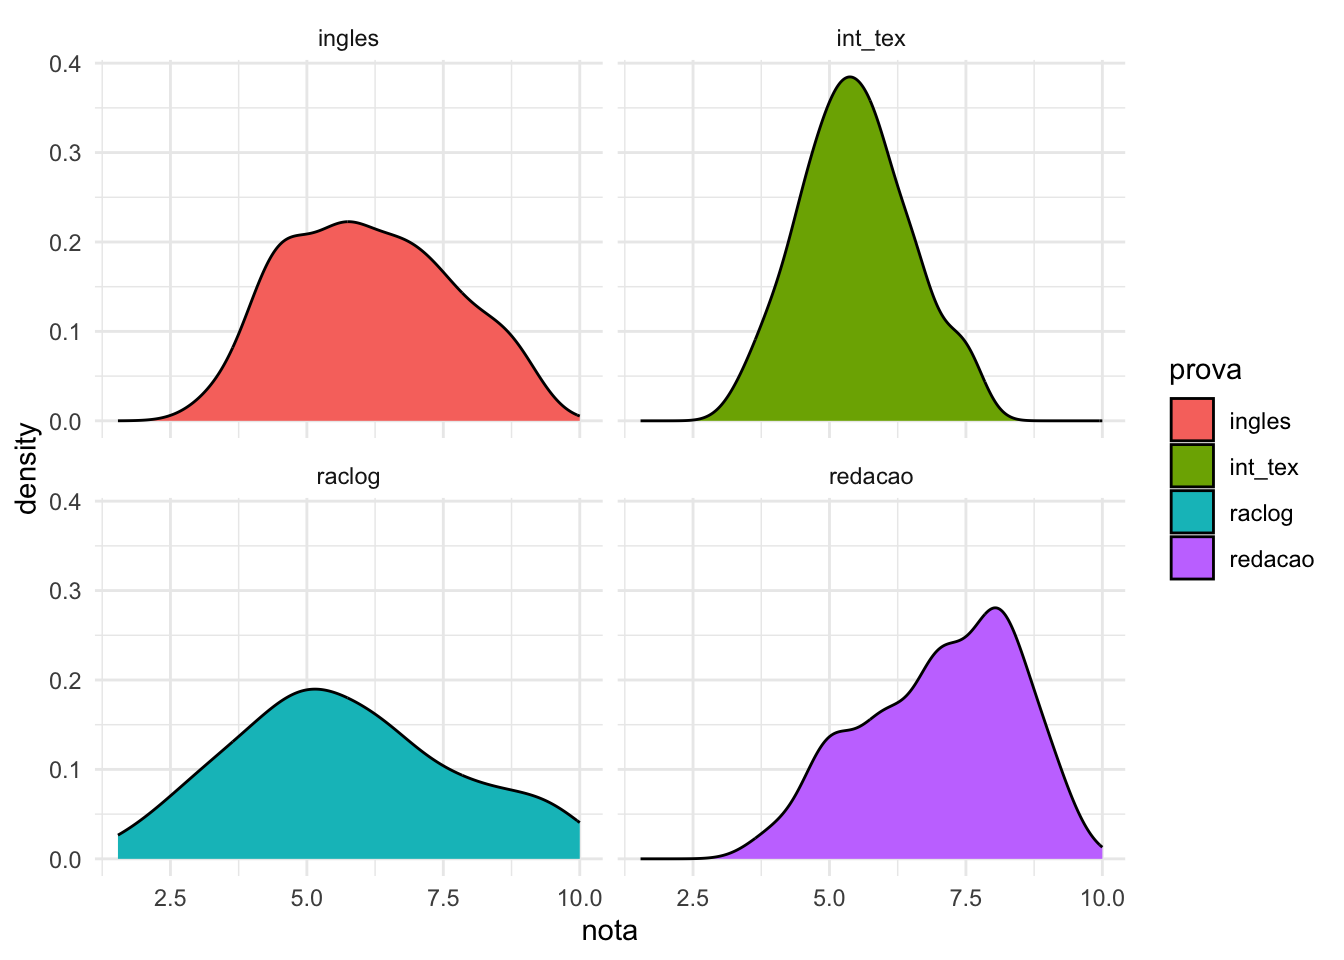
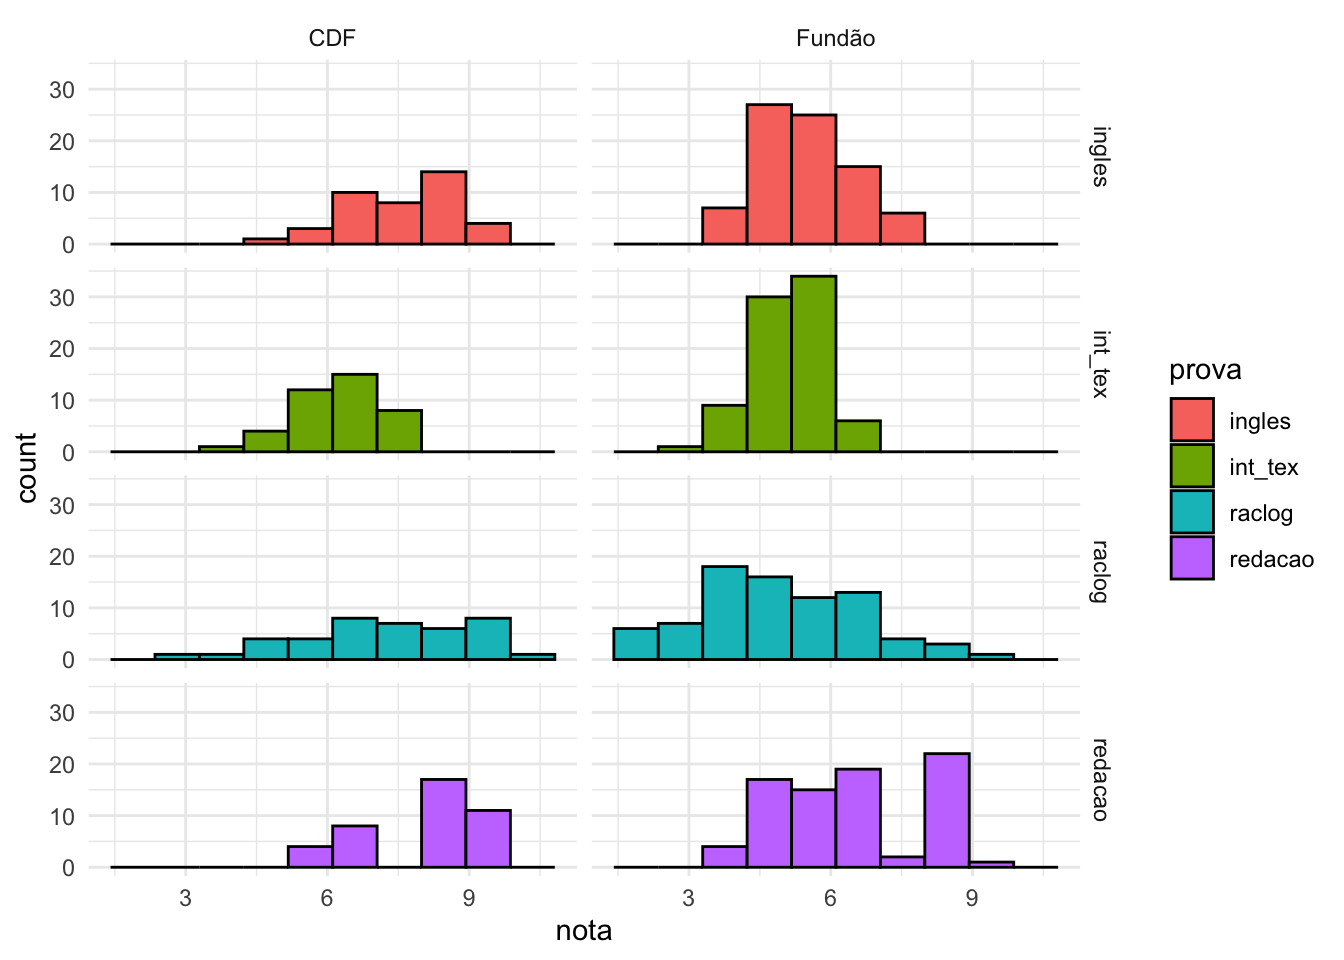
lista prática 2

diff --git a/listas/lista-pratica-2/index.html b/listas/lista-pratica-2/index.html
@@ -74,7 +74,13 @@ pre > code.sourceCode > span > a:first-child::before { text-decoration: underlin
   <ul>
 <li><a href="#quest%C3%A3o-a" id="toc-questão-a" class="nav-link active" data-scroll-target="#quest%C3%A3o-a">Questão a)</a></li>
   <li><a href="#quest%C3%A3o-b" id="toc-questão-b" class="nav-link" data-scroll-target="#quest%C3%A3o-b">Questão b)</a></li>
-  <li><a href="#quest%C3%A3o-c" id="toc-questão-c" class="nav-link" data-scroll-target="#quest%C3%A3o-c">Questão c)</a></li>
+  <li>
+<a href="#quest%C3%A3o-c" id="toc-questão-c" class="nav-link" data-scroll-target="#quest%C3%A3o-c">Questão c)</a>
+  <ul class="collapse">
+<li><a href="#considerando-as-disciplinas-separadamente" id="toc-considerando-as-disciplinas-separadamente" class="nav-link" data-scroll-target="#considerando-as-disciplinas-separadamente">Considerando as disciplinas separadamente</a></li>
+  <li><a href="#considerando-todas-as-provas-independente-da-mat%C3%A9ria" id="toc-considerando-todas-as-provas-independente-da-matéria" class="nav-link" data-scroll-target="#considerando-todas-as-provas-independente-da-mat%C3%A9ria">Considerando todas as provas, independente da matéria</a></li>
+  </ul>
+</li>
   <li><a href="#quest%C3%A3o-d" id="toc-questão-d" class="nav-link" data-scroll-target="#quest%C3%A3o-d">Questão d)</a></li>
   <li><a href="#quest%C3%A3o-e" id="toc-questão-e" class="nav-link" data-scroll-target="#quest%C3%A3o-e">Questão e)</a></li>
   <li><a href="#quest%C3%A3o-f" id="toc-questão-f" class="nav-link" data-scroll-target="#quest%C3%A3o-f">Questão f)</a></li>
@@ -316,9 +322,8 @@ $ grupo_cat &lt;chr&gt; "CDF", "CDF", "CDF", "CDF", "CDF", "CDF", "CDF", "CDF", 
 <div class="cell">
 <details open="" class="code-fold"><summary>Código</summary><div class="sourceCode" id="cb10"><pre class="downlit sourceCode r code-with-copy"><code class="sourceCode R"><span><span class="va">dados_provas_longo</span> <span class="op">|&gt;</span> </span>
 <span>  <span class="fu"><a href="https://ggplot2.tidyverse.org/reference/ggplot.html">ggplot</a></span><span class="op">(</span><span class="op">)</span> <span class="op">+</span></span>
-<span>  <span class="fu"><a href="https://ggplot2.tidyverse.org/reference/aes.html">aes</a></span><span class="op">(</span>x <span class="op">=</span> <span class="va">prova</span>, y <span class="op">=</span> <span class="va">nota</span>, fill <span class="op">=</span> <span class="va">grupo_cat</span><span class="op">)</span> <span class="op">+</span></span>
-<span>  <span class="fu"><a href="https://ggplot2.tidyverse.org/reference/geom_boxplot.html">geom_boxplot</a></span><span class="op">(</span><span class="op">)</span> <span class="op">+</span> </span>
-<span>  <span class="fu"><a href="https://ggplot2.tidyverse.org/reference/facet_wrap.html">facet_wrap</a></span><span class="op">(</span><span class="op">~</span><span class="va">grupo_cat</span><span class="op">)</span> <span class="op">+</span> </span>
+<span>  <span class="fu"><a href="https://ggplot2.tidyverse.org/reference/aes.html">aes</a></span><span class="op">(</span>x <span class="op">=</span> <span class="va">nota</span><span class="op">)</span> <span class="op">+</span></span>
+<span>  <span class="fu"><a href="https://ggplot2.tidyverse.org/reference/geom_histogram.html">geom_histogram</a></span><span class="op">(</span>bins <span class="op">=</span> <span class="fl">10</span>, color <span class="op">=</span> <span class="st">"black"</span>, fill <span class="op">=</span> <span class="st">"lightblue"</span><span class="op">)</span> <span class="op">+</span> </span>
 <span>  <span class="fu"><a href="https://ggplot2.tidyverse.org/reference/ggtheme.html">theme_minimal</a></span><span class="op">(</span><span class="op">)</span></span></code><button title="Copiar para a área de transferência" class="code-copy-button"><i class="bi"></i></button></pre></div>
 </details><div class="cell-output-display">
 <div>
@@ -327,17 +332,12 @@ $ grupo_cat &lt;chr&gt; "CDF", "CDF", "CDF", "CDF", "CDF", "CDF", "CDF", "CDF", 
 </div>
 </div>
 </div>
-</section><section id="questão-c" class="level2"><h2 class="anchored" data-anchor-id="questão-c">Questão c)</h2>
-<p><strong>As notas das provas possuem distribuição normal?</strong></p>
-<ul>
-<li>Visualizando as distribuições:</li>
-</ul>
 <div class="cell">
 <details open="" class="code-fold"><summary>Código</summary><div class="sourceCode" id="cb11"><pre class="downlit sourceCode r code-with-copy"><code class="sourceCode R"><span><span class="va">dados_provas_longo</span> <span class="op">|&gt;</span> </span>
 <span>  <span class="fu"><a href="https://ggplot2.tidyverse.org/reference/ggplot.html">ggplot</a></span><span class="op">(</span><span class="op">)</span> <span class="op">+</span></span>
 <span>  <span class="fu"><a href="https://ggplot2.tidyverse.org/reference/aes.html">aes</a></span><span class="op">(</span>x <span class="op">=</span> <span class="va">nota</span>, fill <span class="op">=</span> <span class="va">prova</span><span class="op">)</span> <span class="op">+</span></span>
-<span>  <span class="fu"><a href="https://ggplot2.tidyverse.org/reference/geom_density.html">geom_density</a></span><span class="op">(</span><span class="op">)</span> <span class="op">+</span> </span>
-<span>  <span class="fu"><a href="https://ggplot2.tidyverse.org/reference/facet_wrap.html">facet_wrap</a></span><span class="op">(</span><span class="op">~</span><span class="va">prova</span><span class="op">)</span> <span class="op">+</span> </span>
+<span>  <span class="fu"><a href="https://ggplot2.tidyverse.org/reference/geom_histogram.html">geom_histogram</a></span><span class="op">(</span>bins <span class="op">=</span> <span class="fl">10</span>, color <span class="op">=</span> <span class="st">"black"</span><span class="op">)</span> <span class="op">+</span> </span>
+<span>  <span class="fu"><a href="https://ggplot2.tidyverse.org/reference/facet_grid.html">facet_grid</a></span><span class="op">(</span><span class="va">prova</span><span class="op">~</span><span class="va">grupo_cat</span><span class="op">)</span> <span class="op">+</span></span>
 <span>  <span class="fu"><a href="https://ggplot2.tidyverse.org/reference/ggtheme.html">theme_minimal</a></span><span class="op">(</span><span class="op">)</span></span></code><button title="Copiar para a área de transferência" class="code-copy-button"><i class="bi"></i></button></pre></div>
 </details><div class="cell-output-display">
 <div>
@@ -346,9 +346,29 @@ $ grupo_cat &lt;chr&gt; "CDF", "CDF", "CDF", "CDF", "CDF", "CDF", "CDF", "CDF", 
 </div>
 </div>
 </div>
-<p>Pelo gráfico, as notas da prova <code>int_tex</code> parecem ter distribuição próxima da normal.</p>
+</section><section id="questão-c" class="level2"><h2 class="anchored" data-anchor-id="questão-c">Questão c)</h2>
+<p><strong>As notas das provas possuem distribuição normal?</strong></p>
+<section id="considerando-as-disciplinas-separadamente" class="level3"><h3 class="anchored" data-anchor-id="considerando-as-disciplinas-separadamente">Considerando as disciplinas separadamente</h3>
+<ul>
+<li>Visualizando as distribuições:</li>
+</ul>
 <div class="cell">
 <details open="" class="code-fold"><summary>Código</summary><div class="sourceCode" id="cb12"><pre class="downlit sourceCode r code-with-copy"><code class="sourceCode R"><span><span class="va">dados_provas_longo</span> <span class="op">|&gt;</span> </span>
+<span>  <span class="fu"><a href="https://ggplot2.tidyverse.org/reference/ggplot.html">ggplot</a></span><span class="op">(</span><span class="op">)</span> <span class="op">+</span></span>
+<span>  <span class="fu"><a href="https://ggplot2.tidyverse.org/reference/aes.html">aes</a></span><span class="op">(</span>x <span class="op">=</span> <span class="va">nota</span>, fill <span class="op">=</span> <span class="va">prova</span><span class="op">)</span> <span class="op">+</span></span>
+<span>  <span class="fu"><a href="https://ggplot2.tidyverse.org/reference/geom_density.html">geom_density</a></span><span class="op">(</span><span class="op">)</span> <span class="op">+</span> </span>
+<span>  <span class="fu"><a href="https://ggplot2.tidyverse.org/reference/facet_wrap.html">facet_wrap</a></span><span class="op">(</span><span class="op">~</span><span class="va">prova</span><span class="op">)</span> <span class="op">+</span> </span>
+<span>  <span class="fu"><a href="https://ggplot2.tidyverse.org/reference/ggtheme.html">theme_minimal</a></span><span class="op">(</span><span class="op">)</span></span></code><button title="Copiar para a área de transferência" class="code-copy-button"><i class="bi"></i></button></pre></div>
+</details><div class="cell-output-display">
+<div>
+<figure class="figure"><p><img src="index_files/figure-html/unnamed-chunk-11-1.png" class="img-fluid figure-img" width="672"></p>
+</figure>
+</div>
+</div>
+</div>
+<p>Pelo gráfico, as notas da prova <code>int_tex</code> parecem ter distribuição próxima da normal.</p>
+<div class="cell">
+<details open="" class="code-fold"><summary>Código</summary><div class="sourceCode" id="cb13"><pre class="downlit sourceCode r code-with-copy"><code class="sourceCode R"><span><span class="va">dados_provas_longo</span> <span class="op">|&gt;</span> </span>
 <span>  <span class="fu">dplyr</span><span class="fu">::</span><span class="fu"><a href="https://dplyr.tidyverse.org/reference/group_by.html">group_by</a></span><span class="op">(</span><span class="va">prova</span><span class="op">)</span> <span class="op">|&gt;</span> </span>
 <span>  <span class="fu">dplyr</span><span class="fu">::</span><span class="fu"><a href="https://dplyr.tidyverse.org/reference/summarise.html">summarise</a></span><span class="op">(</span></span>
 <span>    teste_normalidade <span class="op">=</span> <span class="fu"><a href="https://rdrr.io/r/stats/shapiro.test.html">shapiro.test</a></span><span class="op">(</span><span class="va">nota</span><span class="op">)</span> <span class="op">|&gt;</span> <span class="fu">broom</span><span class="fu">::</span><span class="fu"><a href="https://generics.r-lib.org/reference/tidy.html">tidy</a></span><span class="op">(</span><span class="op">)</span></span>
@@ -408,16 +428,100 @@ $ grupo_cat &lt;chr&gt; "CDF", "CDF", "CDF", "CDF", "CDF", "CDF", "CDF", "CDF", 
 </div>
 </div>
 <p>O resultado teste Shapiro-wilk de normalidade concorda com a minha interpretação do gráfico de densidade: apenas a prova <code>int_tex</code> tem distribuição próxima da normal!</p>
-</section><section id="questão-d" class="level2"><h2 class="anchored" data-anchor-id="questão-d">Questão d)</h2>
+</section><section id="considerando-todas-as-provas-independente-da-matéria" class="level3"><h3 class="anchored" data-anchor-id="considerando-todas-as-provas-independente-da-matéria">Considerando todas as provas, independente da matéria</h3>
+<div class="cell">
+<details open="" class="code-fold"><summary>Código</summary><div class="sourceCode" id="cb14"><pre class="downlit sourceCode r code-with-copy"><code class="sourceCode R"><span><span class="fu"><a href="https://rdrr.io/r/stats/shapiro.test.html">shapiro.test</a></span><span class="op">(</span><span class="va">dados_provas_longo</span><span class="op">$</span><span class="va">nota</span><span class="op">)</span></span></code><button title="Copiar para a área de transferência" class="code-copy-button"><i class="bi"></i></button></pre></div>
+</details><div class="cell-output cell-output-stdout">
+<pre><code>
+    Shapiro-Wilk normality test
+
+data:  dados_provas_longo$nota
+W = 0.98818, p-value = 0.000632</code></pre>
+</div>
+</div>
+<p>O tesultado do teste de normalidade Shapiro-Wilk aponta que, se considerarmos todas as provas, não tem distribuição normal.</p>
+</section></section><section id="questão-d" class="level2"><h2 class="anchored" data-anchor-id="questão-d">Questão d)</h2>
 <p><strong>Existe diferença nas notas dos alunos em função da classificação socioeconômica?</strong></p>
+<div class="cell">
+<details open="" class="code-fold"><summary>Código</summary><div class="sourceCode" id="cb16"><pre class="downlit sourceCode r code-with-copy"><code class="sourceCode R"><span><span class="va">dados_provas_longo_2</span> <span class="op">&lt;-</span> <span class="va">dados_provas_longo</span> <span class="op">|&gt;</span> </span>
+<span>  <span class="fu">dplyr</span><span class="fu">::</span><span class="fu"><a href="https://dplyr.tidyverse.org/reference/mutate.html">mutate</a></span><span class="op">(</span></span>
+<span>    classe_socio <span class="op">=</span> <span class="fu"><a href="https://rdrr.io/r/base/character.html">as.character</a></span><span class="op">(</span><span class="va">socio</span><span class="op">)</span></span>
+<span>  <span class="op">)</span></span></code><button title="Copiar para a área de transferência" class="code-copy-button"><i class="bi"></i></button></pre></div>
+</details>
+</div>
+<p>A variável independente é a classificação socioeconômica, sendo uma variável categórica com 4 grupos: 1, 2, 3 e 4.</p>
+<p>A variável dependente é a nota.</p>
+<p>Vimos no exercício acima que a variável dependente (nota) não tem distribuição normal.</p>
+<p>É importante também testar a homogeneidade das variâncias, utilizando o teste de Levene:</p>
+<div class="cell">
+<details open="" class="code-fold"><summary>Código</summary><div class="sourceCode" id="cb17"><pre class="downlit sourceCode r code-with-copy"><code class="sourceCode R"><span><span class="fu">car</span><span class="fu">::</span><span class="fu"><a href="https://rdrr.io/pkg/car/man/leveneTest.html">leveneTest</a></span><span class="op">(</span><span class="va">dados_provas_longo_2</span><span class="op">$</span><span class="va">nota</span>, <span class="va">dados_provas_longo_2</span><span class="op">$</span><span class="va">classe_socio</span><span class="op">)</span></span></code><button title="Copiar para a área de transferência" class="code-copy-button"><i class="bi"></i></button></pre></div>
+</details><div class="cell-output cell-output-stdout">
+<pre><code>Levene's Test for Homogeneity of Variance (center = median)
+       Df F value Pr(&gt;F)
+group   3  1.4976 0.2144
+      476               </code></pre>
+</div>
+</div>
+<p>Consideramos a partir do teste de levene que temos homogeneidade das variâncias.</p>
+<p>Vamos calcular a ANOVA:</p>
+<div class="cell">
+<details open="" class="code-fold"><summary>Código</summary><div class="sourceCode" id="cb19"><pre class="downlit sourceCode r code-with-copy"><code class="sourceCode R"><span><span class="fu"><a href="https://rdrr.io/r/stats/aov.html">aov</a></span><span class="op">(</span><span class="va">nota</span> <span class="op">~</span> <span class="va">classe_socio</span>, data <span class="op">=</span> <span class="va">dados_provas_longo_2</span><span class="op">)</span> <span class="op">|&gt;</span> </span>
+<span>  <span class="fu"><a href="https://rdrr.io/r/base/summary.html">summary</a></span><span class="op">(</span><span class="op">)</span></span></code><button title="Copiar para a área de transferência" class="code-copy-button"><i class="bi"></i></button></pre></div>
+</details><div class="cell-output cell-output-stdout">
+<pre><code>              Df Sum Sq Mean Sq F value Pr(&gt;F)
+classe_socio   3      2  0.6812   0.257  0.856
+Residuals    476   1262  2.6517               </code></pre>
+</div>
+</div>
+<p>Não temos evidências para afirmar que existe diferença nas notas dos alunos em função da classificação socioeconômica.</p>
+<div class="cell">
+<details open="" class="code-fold"><summary>Código</summary><div class="sourceCode" id="cb21"><pre class="downlit sourceCode r code-with-copy"><code class="sourceCode R"><span><span class="va">dados_provas_longo_2</span> <span class="op">|&gt;</span> </span>
+<span>  <span class="fu"><a href="https://ggplot2.tidyverse.org/reference/ggplot.html">ggplot</a></span><span class="op">(</span><span class="op">)</span> <span class="op">+</span></span>
+<span>  <span class="fu"><a href="https://ggplot2.tidyverse.org/reference/geom_density.html">geom_density</a></span><span class="op">(</span><span class="fu"><a href="https://ggplot2.tidyverse.org/reference/aes.html">aes</a></span><span class="op">(</span>x <span class="op">=</span> <span class="va">nota</span>, color <span class="op">=</span> <span class="va">classe_socio</span><span class="op">)</span><span class="op">)</span> <span class="op">+</span></span>
+<span>  <span class="fu"><a href="https://ggplot2.tidyverse.org/reference/ggtheme.html">theme_minimal</a></span><span class="op">(</span><span class="op">)</span></span></code><button title="Copiar para a área de transferência" class="code-copy-button"><i class="bi"></i></button></pre></div>
+</details><div class="cell-output-display">
+<div>
+<figure class="figure"><p><img src="index_files/figure-html/unnamed-chunk-17-1.png" class="img-fluid figure-img" width="672"></p>
+</figure>
+</div>
+</div>
+</div>
 </section><section id="questão-e" class="level2"><h2 class="anchored" data-anchor-id="questão-e">Questão e)</h2>
 <p><strong>Existe diferença nas notas dos alunos em função do status dos alunos (CDF ou Fundão)?</strong></p>
+<p>A variável independente é o status do aluno, sendo uma variável categórica com 2 grupos: CDF ou fundão.</p>
+<p>A variável dependente é a nota.</p>
+<p>Vimos no exercício acima que a variável dependente (nota) não tem distribuição normal, e que apresenta homogeneidade das variâncias.</p>
+<p>Podemos utilizar a ANOVA novamente:</p>
+<div class="cell">
+<details open="" class="code-fold"><summary>Código</summary><div class="sourceCode" id="cb22"><pre class="downlit sourceCode r code-with-copy"><code class="sourceCode R"><span><span class="fu"><a href="https://rdrr.io/r/stats/aov.html">aov</a></span><span class="op">(</span><span class="va">nota</span> <span class="op">~</span> <span class="va">grupo_cat</span>, data <span class="op">=</span> <span class="va">dados_provas_longo_2</span><span class="op">)</span> <span class="op">|&gt;</span> </span>
+<span>  <span class="fu"><a href="https://rdrr.io/r/base/summary.html">summary</a></span><span class="op">(</span><span class="op">)</span></span></code><button title="Copiar para a área de transferência" class="code-copy-button"><i class="bi"></i></button></pre></div>
+</details><div class="cell-output cell-output-stdout">
+<pre><code>             Df Sum Sq Mean Sq F value              Pr(&gt;F)    
+grupo_cat     1  324.1   324.1   164.7 &lt;0.0000000000000002 ***
+Residuals   478  940.2     2.0                                
+---
+Signif. codes:  0 '***' 0.001 '**' 0.01 '*' 0.05 '.' 0.1 ' ' 1</code></pre>
+</div>
+</div>
+<p>Neste caso, existe diferença nas notas dos alunos em função do status dos alunos (CDF ou Fundão). As notas do grupo CDF são em média maiores do que as notas do fundão.</p>
+<div class="cell">
+<details open="" class="code-fold"><summary>Código</summary><div class="sourceCode" id="cb24"><pre class="downlit sourceCode r code-with-copy"><code class="sourceCode R"><span><span class="va">dados_provas_longo_2</span> <span class="op">|&gt;</span> </span>
+<span>  <span class="fu"><a href="https://ggplot2.tidyverse.org/reference/ggplot.html">ggplot</a></span><span class="op">(</span><span class="op">)</span> <span class="op">+</span></span>
+<span>  <span class="fu"><a href="https://ggplot2.tidyverse.org/reference/geom_density.html">geom_density</a></span><span class="op">(</span><span class="fu"><a href="https://ggplot2.tidyverse.org/reference/aes.html">aes</a></span><span class="op">(</span>x <span class="op">=</span> <span class="va">nota</span>, color <span class="op">=</span> <span class="va">grupo_cat</span><span class="op">)</span><span class="op">)</span> <span class="op">+</span></span>
+<span>  <span class="fu"><a href="https://ggplot2.tidyverse.org/reference/ggtheme.html">theme_minimal</a></span><span class="op">(</span><span class="op">)</span></span></code><button title="Copiar para a área de transferência" class="code-copy-button"><i class="bi"></i></button></pre></div>
+</details><div class="cell-output-display">
+<div>
+<figure class="figure"><p><img src="index_files/figure-html/unnamed-chunk-19-1.png" class="img-fluid figure-img" width="672"></p>
+</figure>
+</div>
+</div>
+</div>
 </section><section id="questão-f" class="level2"><h2 class="anchored" data-anchor-id="questão-f">Questão f)</h2>
 <p><strong>Existe associação significante entre a classificação socioeconômica e o status dos alunos na sala?</strong></p>
 <p>Nesse caso, faremos um Chi-Quadrado.</p>
 <p>Primeiro criamos a tabela de contingência e verificamos se todas as caselas tem pelo menos 4 alunos.</p>
 <div class="cell">
-<details open="" class="code-fold"><summary>Código</summary><div class="sourceCode" id="cb13"><pre class="downlit sourceCode r code-with-copy"><code class="sourceCode R"><span><span class="va">dados_chi_quadrado</span> <span class="op">&lt;-</span> <span class="fu">janitor</span><span class="fu">::</span><span class="fu"><a href="https://sfirke.github.io/janitor/reference/tabyl.html">tabyl</a></span><span class="op">(</span><span class="va">dados</span>, <span class="va">grupo_cat</span>, <span class="va">socio</span><span class="op">)</span> <span class="op">|&gt;</span> </span>
+<details open="" class="code-fold"><summary>Código</summary><div class="sourceCode" id="cb25"><pre class="downlit sourceCode r code-with-copy"><code class="sourceCode R"><span><span class="va">dados_chi_quadrado</span> <span class="op">&lt;-</span> <span class="fu">janitor</span><span class="fu">::</span><span class="fu"><a href="https://sfirke.github.io/janitor/reference/tabyl.html">tabyl</a></span><span class="op">(</span><span class="va">dados</span>, <span class="va">grupo_cat</span>, <span class="va">socio</span><span class="op">)</span> <span class="op">|&gt;</span> </span>
 <span>  <span class="fu"><a href="https://pillar.r-lib.org/reference/glimpse.html">glimpse</a></span><span class="op">(</span><span class="op">)</span></span></code><button title="Copiar para a área de transferência" class="code-copy-button"><i class="bi"></i></button></pre></div>
 </details><div class="cell-output cell-output-stdout">
 <pre><code>Rows: 2
@@ -428,7 +532,7 @@ $ `2`       &lt;dbl&gt; 10, 21
 $ `3`       &lt;dbl&gt; 10, 22
 $ `4`       &lt;dbl&gt; 10, 16</code></pre>
 </div>
-<details open="" class="code-fold"><summary>Código</summary><div class="sourceCode" id="cb15"><pre class="downlit sourceCode r code-with-copy"><code class="sourceCode R"><span><span class="va">dados_chi_quadrado</span> <span class="op">|&gt;</span> </span>
+<details open="" class="code-fold"><summary>Código</summary><div class="sourceCode" id="cb27"><pre class="downlit sourceCode r code-with-copy"><code class="sourceCode R"><span><span class="va">dados_chi_quadrado</span> <span class="op">|&gt;</span> </span>
 <span>  <span class="fu">knitr</span><span class="fu">::</span><span class="fu"><a href="https://rdrr.io/pkg/knitr/man/kable.html">kable</a></span><span class="op">(</span><span class="op">)</span></span></code><button title="Copiar para a área de transferência" class="code-copy-button"><i class="bi"></i></button></pre></div>
 </details><div class="cell-output-display">
 <table class="table table-sm table-striped small">
@@ -459,7 +563,7 @@ $ `4`       &lt;dbl&gt; 10, 16</code></pre>
 </div>
 </div>
 <div class="cell">
-<details open="" class="code-fold"><summary>Código</summary><div class="sourceCode" id="cb16"><pre class="downlit sourceCode r code-with-copy"><code class="sourceCode R"><span><span class="va">chi_quadrado</span> <span class="op">&lt;-</span> <span class="va">dados</span> <span class="op">|&gt;</span></span>
+<details open="" class="code-fold"><summary>Código</summary><div class="sourceCode" id="cb28"><pre class="downlit sourceCode r code-with-copy"><code class="sourceCode R"><span><span class="va">chi_quadrado</span> <span class="op">&lt;-</span> <span class="va">dados</span> <span class="op">|&gt;</span></span>
 <span>  <span class="fu">dplyr</span><span class="fu">::</span><span class="fu"><a href="https://dplyr.tidyverse.org/reference/select.html">select</a></span><span class="op">(</span><span class="va">grupo</span>, <span class="va">socio</span><span class="op">)</span> <span class="op">|&gt;</span></span>
 <span>  <span class="fu"><a href="https://rdrr.io/r/stats/chisq.test.html">chisq.test</a></span><span class="op">(</span><span class="op">)</span></span>
 <span></span>
@@ -471,7 +575,7 @@ $ `4`       &lt;dbl&gt; 10, 16</code></pre>
 1      37.2    1.00       119 Pearson's Chi-squared test</code></pre>
 </div>
 </div>
-<p>Não há evidências de que existe associação significativa entre a cllassificação socioeconômica e o status dos alunos na sala.</p>
+<p>Não há evidências de que existe associação significativa entre a classificação socioeconômica e o status dos alunos na sala (p-valor = 1).</p>
 </section></main><!-- /main column --><script id="quarto-html-after-body" type="application/javascript">
 window.document.addEventListener("DOMContentLoaded", function (event) {
   const toggleBodyColorMode = (bsSheetEl) => {
